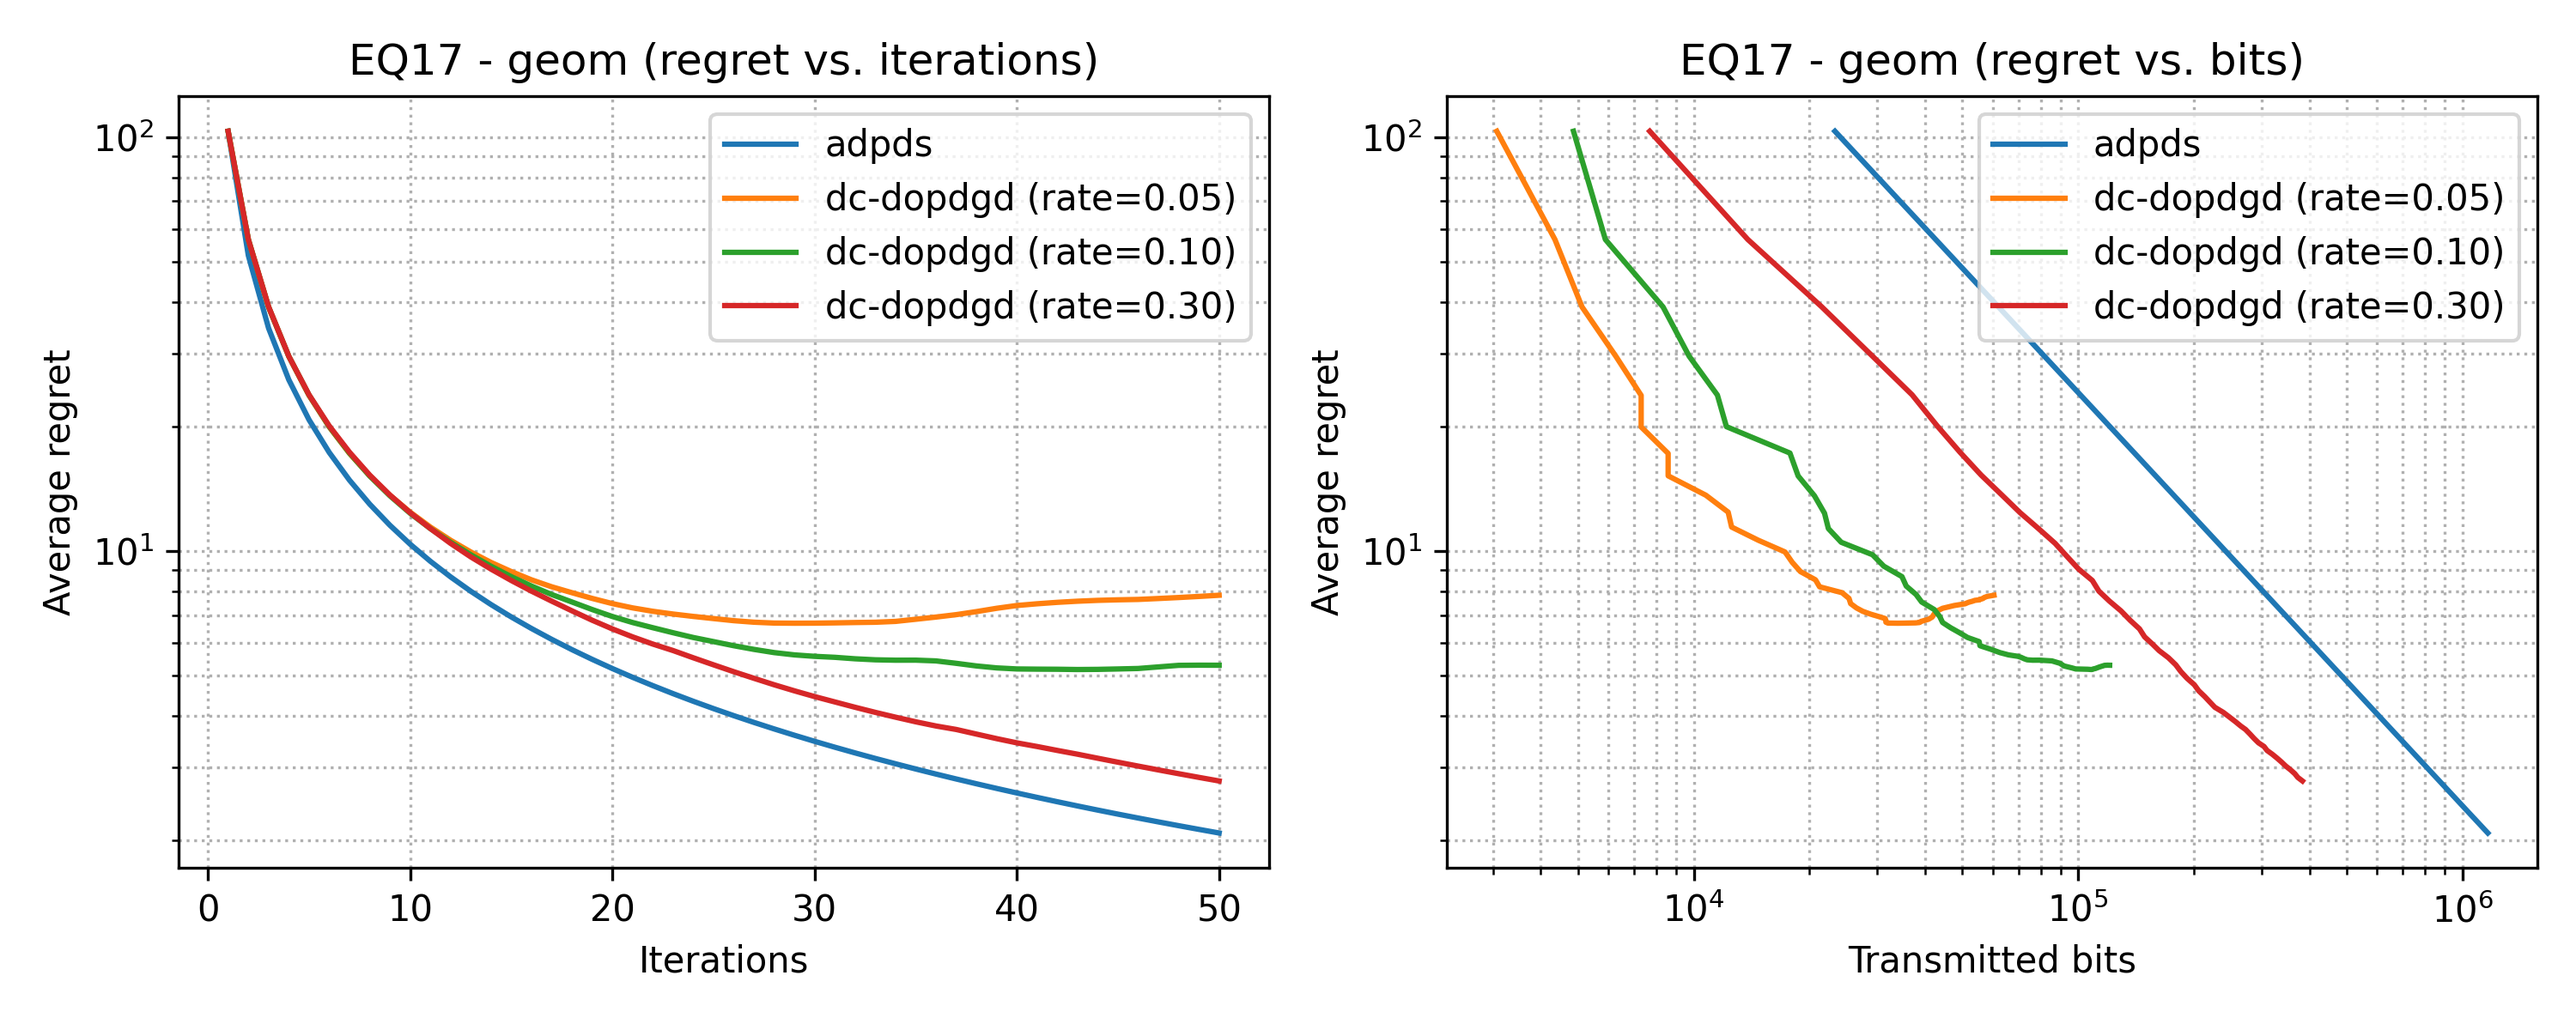
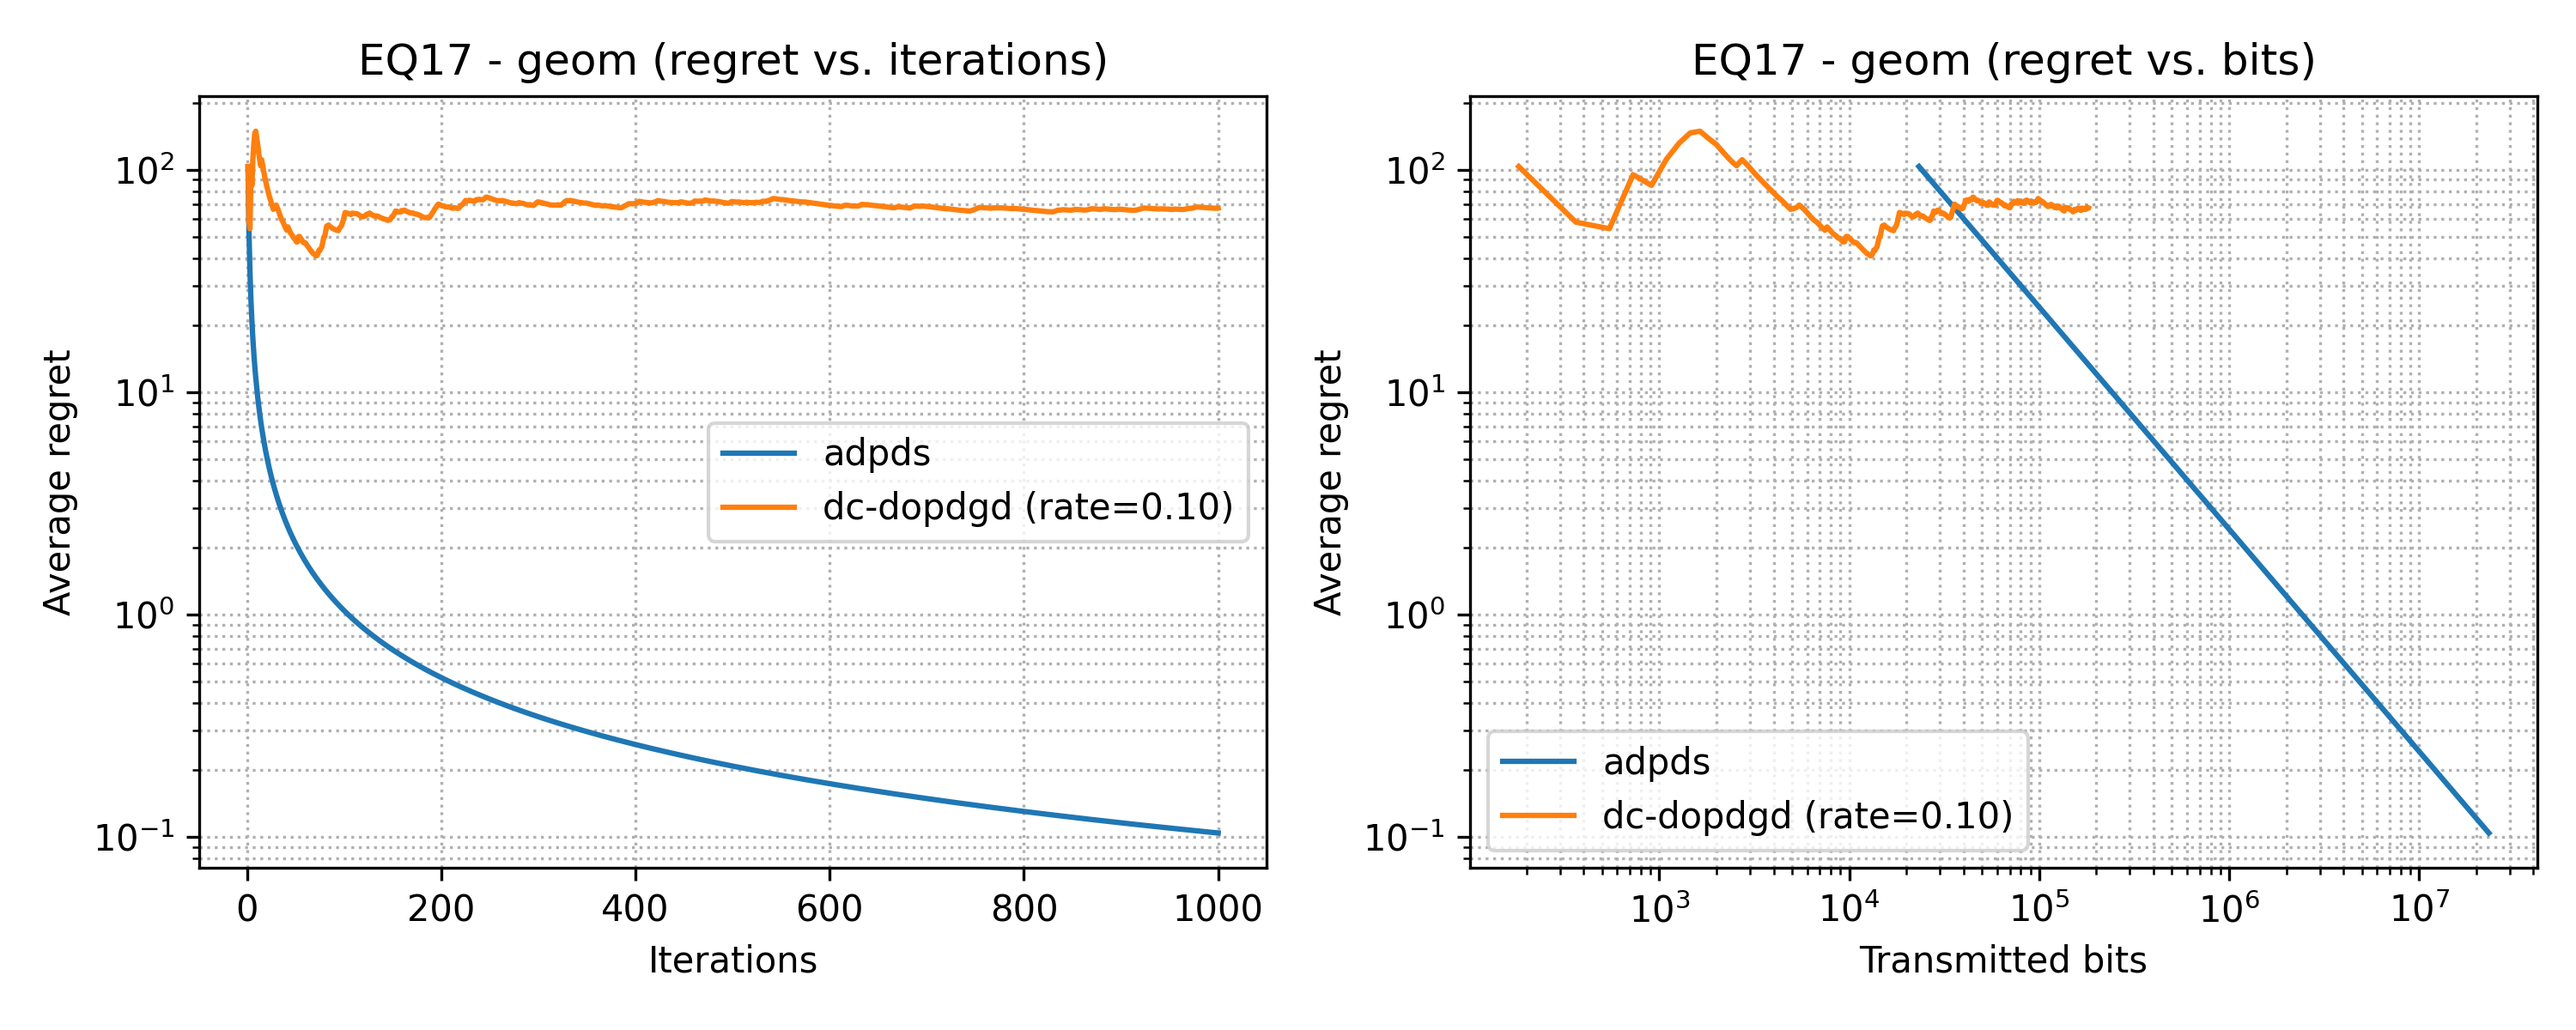
new version

diff --git a/CC-DOCO/dc_dopdgd.py b/CC-DOCO/dc_dopdgd.py
@@ -33,6 +33,9 @@ class CompressorWrapper:
         compressor_type = compressor_type.lower()
         if compressor_type not in {"no", "rand", "top", "gossip", "quant"}:
             raise ValueError(f"Unsupported compressor type: {compressor_type}")
+        class _Identity:
+                def __init__(self): self.total_bit = 0.0
+                def compress(self, vec, times): return vec
         if compressor_type == "quant":
             if s is None:
                 raise ValueError("Quantised compressor requires `s` levels")
@@ -50,7 +53,7 @@ class CompressorWrapper:
                 raise ValueError("Random gossip compressor requires `w`")
             self._impl = RandGossip(w)
         else:  # "no" => deterministic gossip with probability 1
-            self._impl = RandGossip(1.0)
+            self._impl = _Identity()
         self.compressor_type = compressor_type
         self.w = w
         self.s = s
@@ -81,6 +84,7 @@ class DCDOPDGDConfigEq17:
     rho: float
     proj: str  # 'l1' or 'l2'
     gamma: float = 0.5
+    Cgamma_dual: float = 1.0
     omega: float = 0.0
     Cbeta: float = 1.0
     Ceta: float = 1.0
@@ -110,6 +114,7 @@ class DCDOPDGDConfigEq18:
     Cbeta: float = 1.0
     Ceta: float = 1.0
     Calpha: float = 1.0
+    Cgamma_dual: float = 1.0
     beta_exp: Optional[float] = None
     eta_exp: Optional[float] = None
     alpha_exp: Optional[float] = None
@@ -131,7 +136,8 @@ def _build_schedules(Cbeta: float, Ceta: float, Calpha: float, c: float,
     t = np.arange(1, T + 1, dtype=float)
     beta_e = beta_exp if beta_exp is not None else (0.5 + c)
     eta_e = eta_exp if eta_exp is not None else c
-    alpha_e = alpha_exp if alpha_exp is not None else 0.0
+    # alpha_e = alpha_exp if alpha_exp is not None else 0.0
+    alpha_e = alpha_exp if alpha_exp is not None else c
     beta = Cbeta * (t ** (-beta_e))
     eta = Ceta * (t ** (-eta_e))
     alpha = Calpha * (t ** (-alpha_e))
@@ -145,6 +151,17 @@ def _compress_diff(compressor: CompressorWrapper, diff: np.ndarray, degrees: np.
         out[i] = compressor.compress(diff[i], deg if deg > 0 else 1.0)
     return out
 
+def safe_gamma_from_network(W: np.ndarray, omega: float) -> float:
+    # W: 对称双随机混合矩阵
+    evals = np.linalg.eigvalsh(W)
+    lam2 = np.sort(evals)[-2]          # 第二大特征值
+    delta = 1.0 - lam2                 # 光谱间隙
+    beta = np.linalg.norm(np.eye(W.shape[0]) - W, 2)  # ||I - W||_2
+    # 保守 γ_max：与差分压缩/CHOCO 分析一致的“δ^2×ω/β^2”型标度（经验上很稳）
+    gamma_max = 0.25 * (omega * (delta ** 2)) / (beta ** 2 + 1e-12)
+    return max(min(gamma_max, 0.25), 1e-4)  # 不让太大也不取到 0
+
+
 
 # =============================================================================
 # Eq.17 (2D) routine
@@ -156,8 +173,13 @@ def run_dcdopdgd_eq17(cfg: DCDOPDGDConfigEq17, W: np.ndarray, A: np.ndarray,
     T, m = a.shape
     beta, eta, alpha_seq = _build_schedules(cfg.Cbeta, cfg.Ceta, cfg.Calpha, cfg.c,
                                             cfg.beta_exp, cfg.eta_exp, cfg.alpha_exp, T)
-    proj_radius = max(1.0 - cfg.omega, 1e-12)
-
+    omega_eff = 1.0 if getattr(compressor, "compressor_type", None) == "no" else cfg.omega
+    cfg.gamma = min(cfg.gamma, safe_gamma_from_network(W, omega_eff))
+    # proj_radius = max(1.0 - cfg.omega, 1e-12)
+    proj_radius = 1.0
+    t_idx = np.arange(1, T+1, dtype=float)
+    dual_gamma = (t_idx ** -0.5) * getattr(cfg, "Cgamma_dual", 1.0)
+    
     # problem dimension (for bandit estimator scaling)
     d = 2
     compressor.reset(dimension=d)
@@ -216,8 +238,12 @@ def run_dcdopdgd_eq17(cfg: DCDOPDGDConfigEq17, W: np.ndarray, A: np.ndarray,
         g_post = np.sum(np.abs(x_new), axis=1) - 1.0
         g_post_perstep[k] = g_post
 
+        # grad_lambda = g_vals - alpha_seq[k] * lam
+        # lam_temp = lam + eta[k] * grad_lambda
+        # grad_lambda = g_vals - eta[k] * lam
+        # lam_temp = lam + dual_gamma[k] * grad_lambda
         grad_lambda = g_vals - alpha_seq[k] * lam
-        lam_temp = lam + eta[k] * grad_lambda
+        lam_temp = lam + dual_gamma[k] * grad_lambda
         lam_mixed = W.dot(lam_temp)
         lam = np.maximum(lam_mixed, 0.0)
         x = x_new
@@ -274,8 +300,12 @@ def run_dcdopdgd_eq18(cfg: DCDOPDGDConfigEq18, W: np.ndarray, A: np.ndarray,
     T, m = a.shape
     beta, eta, alpha_seq = _build_schedules(cfg.Cbeta, cfg.Ceta, cfg.Calpha, cfg.c,
                                             cfg.beta_exp, cfg.eta_exp, cfg.alpha_exp, T)
-    proj_radius = max(cfg.R * (1.0 - cfg.omega), 1e-12)
-
+    omega_eff = 1.0 if getattr(compressor, "compressor_type", None) == "no" else cfg.omega
+    cfg.gamma = min(cfg.gamma, safe_gamma_from_network(W, omega_eff))
+    # proj_radius = max(cfg.R * (1.0 - cfg.omega), 1e-12)
+    proj_radius = cfg.R
+    t_idx = np.arange(1, T+1, dtype=float)
+    dual_gamma = (t_idx ** -0.5) * cfg.Cgamma_dual
     # problem dimension (for bandit estimator scaling)
     d = 1
     compressor.reset(dimension=d)
@@ -327,8 +357,12 @@ def run_dcdopdgd_eq18(cfg: DCDOPDGDConfigEq18, W: np.ndarray, A: np.ndarray,
         g_post = np.abs(x_new) - cfg.R
         g_post_perstep[k] = g_post
 
+        # grad_lambda = g_vals - alpha_seq[k] * lam
+        # lam_temp = lam + eta[k] * grad_lambda
+        # grad_lambda = g_vals - eta[k] * lam
+        # lam_temp = lam + dual_gamma[k] * grad_lambda
         grad_lambda = g_vals - alpha_seq[k] * lam
-        lam_temp = lam + eta[k] * grad_lambda
+        lam_temp = lam + dual_gamma[k] * grad_lambda
         lam_mixed = W.dot(lam_temp)
         lam = np.maximum(lam_mixed, 0.0)
         x = x_new

diff --git a/CC-DOCO/compare_algos.py b/CC-DOCO/compare_algos.py
@@ -181,6 +181,7 @@ def parse_args() -> argparse.Namespace:
     p.add_argument('--dc-Ceta', type=float, default=1.0)
     p.add_argument('--dc-Calpha', type=float, default=1.0)
     p.add_argument('--dc-gamma', type=float, default=0.5)
+    p.add_argument('--dc-Cgamma-dual', type=float, default=1.0, help='Coefficient for dual step size (multiplis t^{-1/2}).')
     p.add_argument('--dc-omega', type=float, default=0.0)
     p.add_argument('--dc-nu', type=float, default=0.1,
                    help='Exploration radius ν for DC-DOPDGD zero-order estimator.')
@@ -188,8 +189,9 @@ def parse_args() -> argparse.Namespace:
                    help='Decay exponent p for ν_t = ν / t^p.')
     p.add_argument('--dc-batch', type=int, default=1,
                    help='Number of directions per step for bandit averaging.')
-    p.add_argument('--dc-common-random', action='store_true',
-                   help='Use common random direction across nodes each step.')
+    p.add_argument('--dc-common-random', dest='dc_common_random', action='store_true', help='Use common random direction across nodes each step.')
+    p.add_argument('--no-dc-common-random', dest='dc_common_random', action='store_false', help='Disable common random.')
+    p.set_defaults(dc_common_random=False)
     p.add_argument('--dc-beta-exp', type=float, default=None)
     p.add_argument('--dc-eta-exp', type=float, default=None)
     p.add_argument('--dc-alpha-exp', type=float, default=None)
@@ -296,7 +298,8 @@ def main() -> None:
                         cfg = DCDOPDGDConfigEq17(c=args.c, T=args.T, rho=args.rho, proj=args.proj,
                                                  gamma=args.dc_gamma, omega=args.dc_omega,
                                                  Cbeta=args.dc_Cbeta, Ceta=args.dc_Ceta,
-                                                 Calpha=args.dc_Calpha, beta_exp=args.dc_beta_exp,
+                                                 Calpha=args.dc_Calpha, Cgamma_dual=args.dc_Cgamma_dual,
+                                                 beta_exp=args.dc_beta_exp,
                                                  eta_exp=args.dc_eta_exp, alpha_exp=args.dc_alpha_exp,
                                                  tol=args.eq17_tol, nu=args.dc_nu,
                                                  nu_exp=args.dc_nu_exp, batch=args.dc_batch,
@@ -307,7 +310,8 @@ def main() -> None:
                         cfg = DCDOPDGDConfigEq18(c=args.c18, T=args.T, R=args.R,
                                                  gamma=args.dc_gamma, omega=args.dc_omega,
                                                  Cbeta=args.dc_Cbeta, Ceta=args.dc_Ceta,
-                                                 Calpha=args.dc_Calpha, beta_exp=args.dc_beta_exp,
+                                                 Calpha=args.dc_Calpha, Cgamma_dual=args.dc_Cgamma_dual,
+                                                 beta_exp=args.dc_beta_exp,
                                                  eta_exp=args.dc_eta_exp, alpha_exp=args.dc_alpha_exp,
                                                  nu=args.dc_nu, nu_exp=args.dc_nu_exp,
                                                  batch=args.dc_batch,
